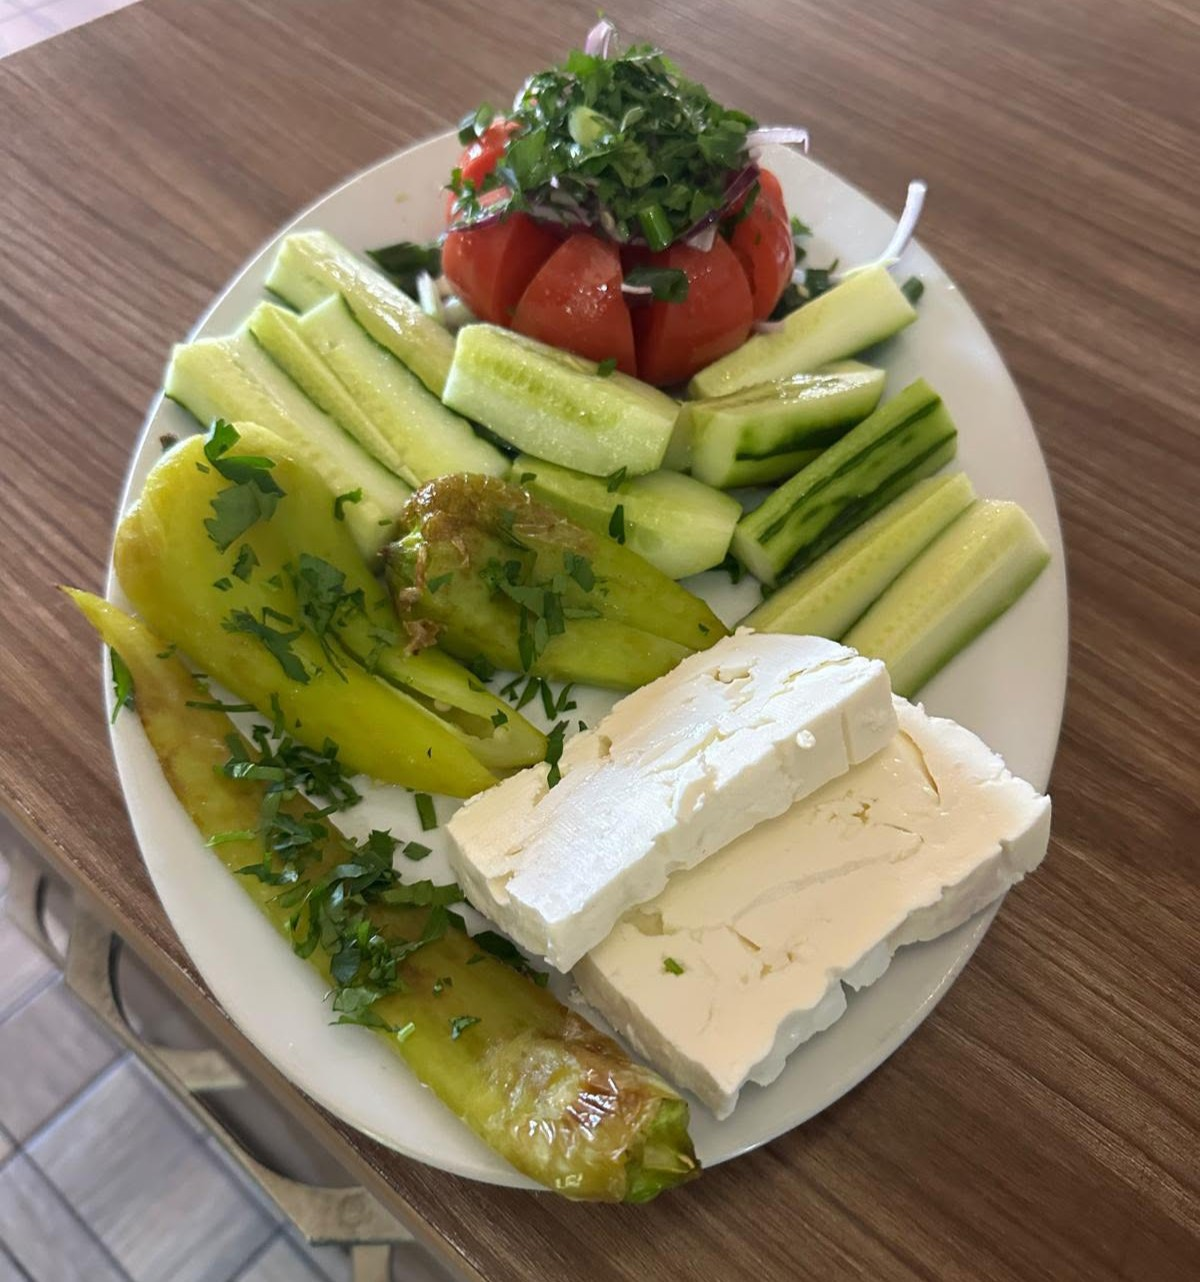
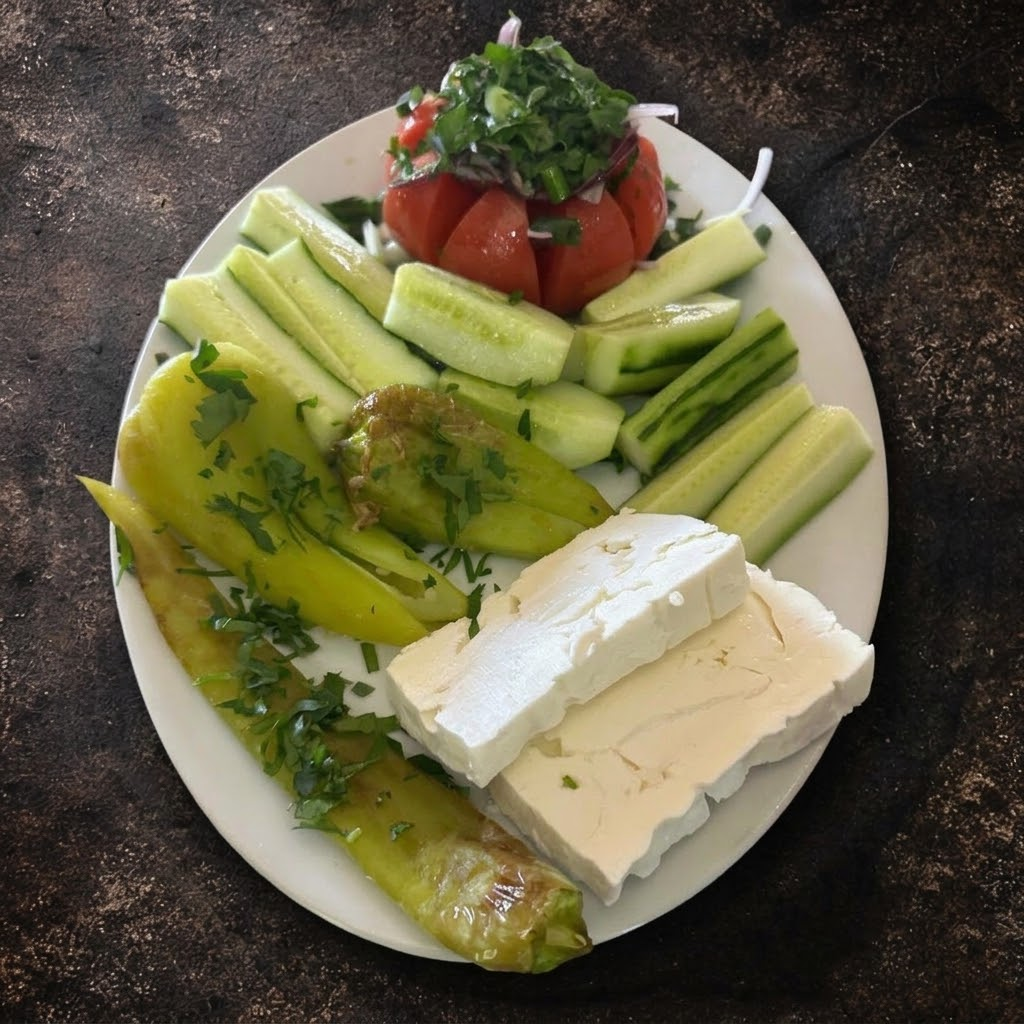
Add files via upload

diff --git a/vodastyl.css b/vodastyl.css
@@ -29,7 +29,7 @@ h3{
 
 #cena{
     font-size:40px;
-    color:gold;
+    color:rgb(126, 31, 75);
     font-weight:bold;
     text-shadow: 5px 5px 5px black;
     
@@ -50,10 +50,10 @@ img{
     text-align:center;
     background:rgba(255,255,255,.08);
     padding:30px;
-    border:3px solid gold;
+    border:3px solid rgb(2, 2, 2);
     border-radius:25px;
     backdrop-filter:blur(10px);
-    border-color: gold;
+    border-color: rgb(0, 0, 0);
     
 }
 
